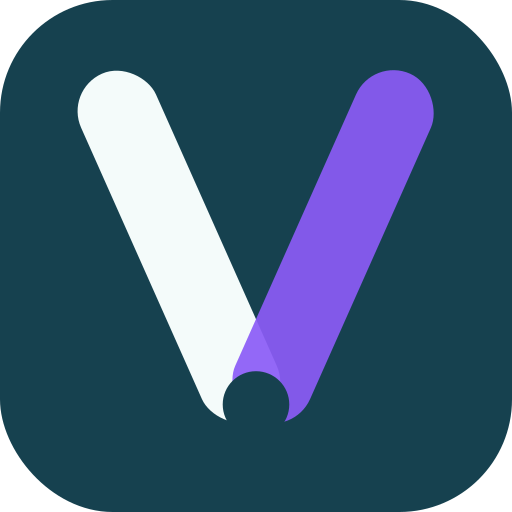
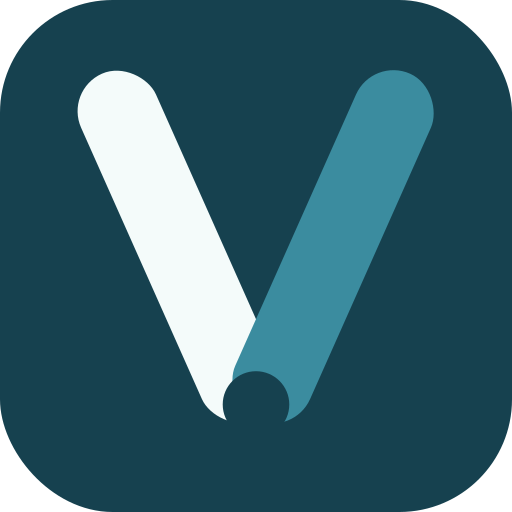
Fix VetroAI mark accent color to brand teal
Swap the purple accent for the correct teal (#3b8c9f) to match the
official brand page reference, and drop the stray opacity that
lightened it.

Claude-Session: https://claude.ai/code/session_01SFKSaLXKeMv1wUQgFoUkmo

Changed region(s): [[0.4375, 0.125, 0.8438, 0.8125]]

diff --git a/frontend/src/App.jsx b/frontend/src/App.jsx
@@ -207,7 +207,7 @@ const VetroLogo = ({ width = 150, className = "" }) => (
   />
 );
 
-// Icon-only: the VetroAi mark (dark teal square, indigo/white wing, base dot)
+// Icon-only: the VetroAi mark (dark teal square, white/teal V, base dot)
 const VetroSpark = ({ size = 32, className = "" }) => (
   <div
     className={className}
@@ -216,7 +216,7 @@ const VetroSpark = ({ size = 32, className = "" }) => (
     <svg viewBox="0 0 100 100" width={size} height={size} aria-hidden="true" focusable="false">
       <rect x="0" y="0" width="100" height="100" rx="22" fill="#16414F" />
       <rect x="42" y="8" width="16" height="74" rx="8" fill="#F4FBFA" transform="rotate(-24 50 82)" />
-      <rect x="42" y="8" width="16" height="74" rx="8" fill="#8b5cf6" opacity="0.92" transform="rotate(24 50 82)" />
+      <rect x="42" y="8" width="16" height="74" rx="8" fill="#3b8c9f" transform="rotate(24 50 82)" />
       <circle cx="50" cy="79" r="6.5" fill="#16414F" />
     </svg>
   </div>
